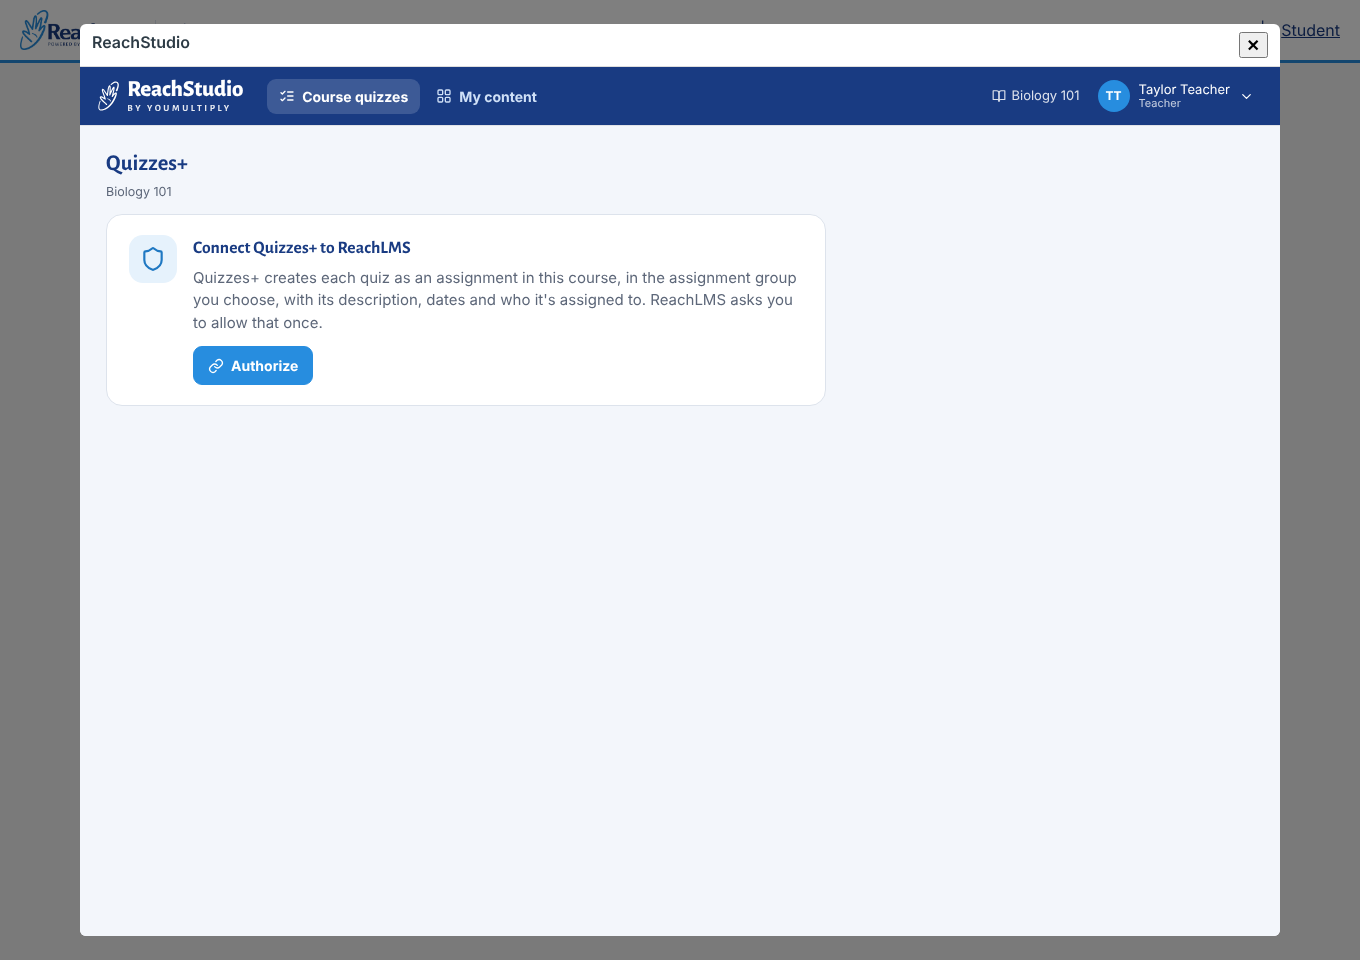
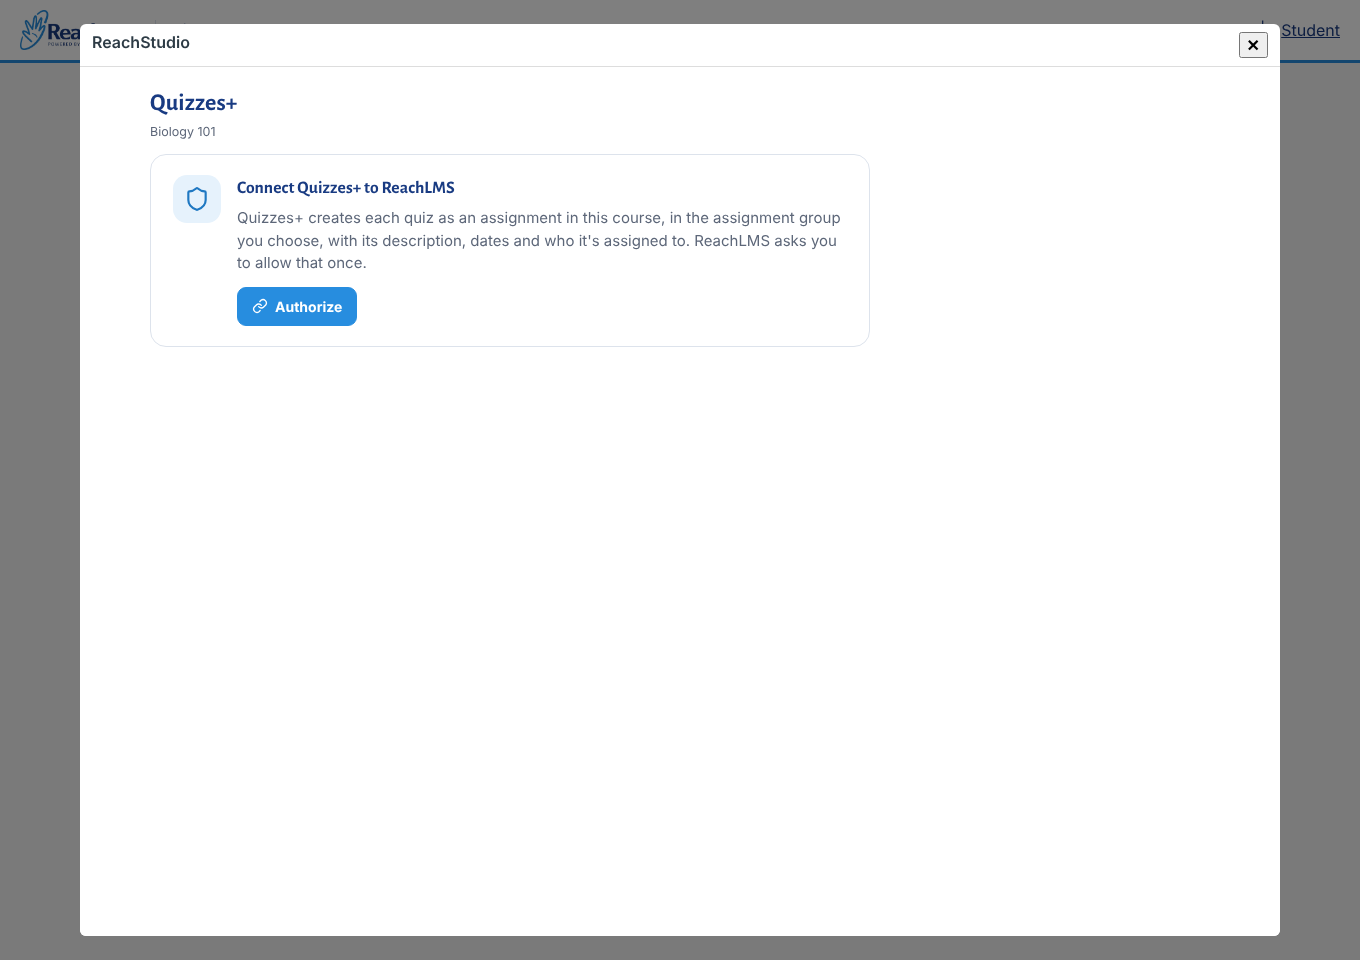
Quizzes+ teacher view: its own course page, clear status messages
- Teachers open Quizzes+ as a plain page inside the course (no
  ReachStudio top bar, library or account menu); it grows with its
  content and tells ReachLMS its height instead of using a fixed-height
  app layout inside the frame
- Every state explains itself instead of showing an empty panel: API key
  missing, not yet authorised, course ID not sent by ReachLMS (old
  registration), or an existing unlinked account with the same email
- Preview returns to the Quizzes+ page (/quiz/teach)

Claude-Session: https://claude.ai/code/session_01An4ge1vJA3nj6XaPBrGGTf

Changed region(s): [[0.0618, 0.0625, 0.9574, 0.4062]]

diff --git a/public/js/quizzes-teacher.js b/public/js/quizzes-teacher.js
@@ -1,0 +1,45 @@
+// Quizzes+ for teachers: a page of its own inside the course (no ReachStudio app around it).
+// It grows with its content and tells ReachLMS its height, like a normal course page.
+import { h, makeApi, iconBtn } from './util.js';
+import { icon } from './icons.js';
+import { responsesTable, snapshotFrame, fmtWhen } from './submission.js';
+import { initRq } from './rq/teacher.js';
+
+const BOOT = window.BOOT;
+const api = makeApi(() => BOOT.token);
+const app = document.getElementById('rqt');
+app.replaceChildren();
+
+function moreMenu(name, items) {
+  const menu = h('div', { class: 'menu hidden', role: 'menu' }, items.map(([ic, label, fn, cls]) =>
+    h('button', { type: 'button', role: 'menuitem', class: cls || '', onclick: () => { menu.classList.add('hidden'); fn(); } }, icon(ic, { size: 15 }), h('span', {}, label))));
+  const btn = iconBtn('more', `More actions for ${name}`, (e) => {
+    e.stopPropagation();
+    document.querySelectorAll('.menu:not(.hidden)').forEach((m) => m !== menu && m.classList.add('hidden'));
+    menu.classList.toggle('hidden');
+  });
+  btn.setAttribute('aria-haspopup', 'menu');
+  return h('span', { class: 'menu-wrap' }, btn, menu);
+}
+document.addEventListener('click', (e) => { if (!e.target.closest('.menu-wrap')) document.querySelectorAll('.menu:not(.hidden)').forEach((m) => m.classList.add('hidden')); });
+
+const topbar = () => document.createComment('');
+const go = (hash) => { if (location.hash === hash) route(); else location.hash = hash; };
+const rq = initRq({ app, api, topbar, go, moreMenu, responsesTable, snapshotFrame, fmtWhen });
+
+function route() {
+  const [view, arg] = location.hash.replace(/^#/, '').split('/');
+  if (view === 'rq' && arg) return rq.renderQuizEdit(arg);
+  return rq.renderQuizzes();
+}
+window.addEventListener('hashchange', route);
+route();
+
+// Tell ReachLMS how tall the page is, so the course frame fits it (no inner scrollbars).
+let lastH = 0;
+new ResizeObserver(() => {
+  const height = Math.max(600, Math.ceil(document.documentElement.scrollHeight));
+  if (Math.abs(height - lastH) < 4) return;
+  lastH = height;
+  window.parent?.postMessage({ subject: 'lti.frameResize', height }, '*');
+}).observe(document.body);

diff --git a/src/quizzes.js b/src/quizzes.js
@@ -87,7 +87,7 @@ export function quizLaunch(res, { lti, userId, quizId, ags, payload }) {
   if (lti.instructor) {
     lti.kind = 'quizzes';
     const uid = userId || provisionTeacher(lti);
-    return res.send(views.studio(createSession(uid, lti)));
+    return res.send(views.quizzesTeacher(createSession(uid, lti)));
   }
   lti.kind = 'quizlist';
   return res.send(views.quizzes(createSession(userId, lti)));
@@ -207,7 +207,7 @@ quizzesRouter.get('/api/quizzes', requireSession, async (req, res) => {
     });
     return res.json({ course: l.context, label: config.quizNavLabel, quizzes: out });
   }
-  const status = { configured: apiConfigured(), connected: isConnected(l) };
+  const status = { configured: apiConfigured(), connected: isConnected(l), courseKnown: !!l.canvasCourseId, signedIn: !!req.session.userId };
   let groups = { weighted: false, groups: [] };
   if (status.configured && status.connected && l.canvasCourseId) {
     try {
@@ -331,9 +331,16 @@ quizzesRouter.post('/api/quizzes/:id/open', requireTeacher, (req, res) => {
   const l = req.session.lti;
   const q = findQuiz(l, req.params.id);
   if (!q) return res.status(404).json({ error: 'Quiz not found.' });
-  const backUrl = `/studio?t=${encodeURIComponent(req.session.token)}#quizzes`;
+  const backUrl = `/quiz/teach?t=${encodeURIComponent(req.session.token)}`;
   const token = playerSession({ lti: { ...l, kind: undefined, backUrl, preview: true }, userId: req.session.userId, quiz: { ...q, lineitem: null }, asTeacher: false });
   res.json({ url: `/quiz/play?t=${encodeURIComponent(token)}` });
+});
+
+quizzesRouter.get('/quiz/teach', (req, res) => {
+  const row = db.prepare('SELECT * FROM sessions WHERE token = ?').get(String(req.query.t || ''));
+  const l = row?.lti ? JSON.parse(row.lti) : null;
+  if (!l || l.kind !== 'quizzes' || row.expires_at < Date.now()) return res.status(401).send(views.message('Session expired', 'Open Quizzes+ again from the course menu.'));
+  res.send(views.quizzesTeacher(row.token));
 });
 
 quizzesRouter.get('/quiz/list', (req, res) => {

diff --git a/src/views.js b/src/views.js
@@ -14,7 +14,7 @@ const json = (o) => JSON.stringify(o).replace(/</g, '\\u003c').replace(/\u2028/g
 const JS_DIR = path.join(path.dirname(fileURLToPath(import.meta.url)), '..', 'public', 'js');
 const MODULES = (function list(dir, rel = '') {
   return fs.readdirSync(dir, { withFileTypes: true }).flatMap((e) => (e.isDirectory() ? list(path.join(dir, e.name), `${rel}${e.name}/`) : e.name.endsWith('.js') ? [`${rel}${e.name}`] : []));
-}(JS_DIR)).filter((f) => !/^(reset-page|quizzes-page|review-page|player-page|studio)\.js$/.test(f));
+}(JS_DIR)).filter((f) => !/^(reset-page|quizzes-page|quizzes-teacher|review-page|player-page|studio)\.js$/.test(f));
 const preloads = () => MODULES.map((f) => `<link rel="modulepreload" href="/js/v/${config.build}/${f}">`).join('');
 
 // Shown the instant the page arrives (inline styles, no downloads), until the app replaces it.
@@ -90,6 +90,15 @@ export const views = {
       modules: true,
       bodyClass: 'player-body review-body',
       scripts: `<script>window.BOOT=${json({ token, build: config.build })}</script><script type="module" src="/js/v/${config.build}/review-page.js"></script>`,
+    });
+  },
+
+  // ReachQuizzes for teachers: its own page in the course (no ReachStudio app around it).
+  quizzesTeacher(token) {
+    return shell(config.quizToolName, `<main id="rqt" class="rqt-root">${splash(`Opening ${config.quizNavLabel}…`)}</main>`, {
+      bodyClass: 'rqt-body',
+      modules: true,
+      scripts: `<script>window.BOOT=${json({ token, build: config.build, label: config.quizNavLabel })}</script><script type="module" src="/js/v/${config.build}/quizzes-teacher.js"></script>`,
     });
   },
 

diff --git a/public/js/rq/teacher.js b/public/js/rq/teacher.js
@@ -40,6 +40,13 @@ export function initRq({ app, api, topbar, go, moreMenu, responsesTable, snapsho
     const head = h('div', { class: 'rq-top' },
       h('div', {}, h('h2', {}, r.label), h('p', { class: 'help' }, r.course || '')),
       r.connected && h('button', { class: 'btn primary', type: 'button', onclick: () => newQuiz(r) }, icon('plus', { size: 16 }), h('span', {}, 'Quiz')));
+    // Anything that stops quizzes being created gets a clear explanation (never an empty page).
+    const problem = !r.signedIn
+      ? 'Quizzes+ couldn\'t set up your account automatically: a ReachStudio account with your email already exists. Open ReachStudio once from the editor\'s ReachStudio button and sign in to it; Quizzes+ then uses the same account.'
+      : !r.courseKnown
+        ? 'ReachLMS didn\'t send this course\'s ID with the launch. Ask your administrator to reinstall ReachQuizzes (Developer Keys → + Dynamic Registration with /lti/register?app=quizzes); the current version asks for it.'
+        : null;
+    if (problem) { app.replaceChildren(topbar('quizzes'), h('section', { class: 'main rq' }, head, h('div', { class: 'rq-connect' }, h('span', { class: 'rq-connect-ico warnico' }, icon('alert', { size: 26 })), h('div', {}, h('h3', {}, 'Quizzes+ isn\'t ready in this course yet'), h('p', {}, problem))))); return; }
     if (!r.connected) { app.replaceChildren(topbar('quizzes'), h('section', { class: 'main rq' }, head, connectCard(r, renderQuizzes))); return; }
 
     const byGroup = new Map(r.groups.map((g) => [g.id, []]));

diff --git a/public/css/app.css b/public/css/app.css
@@ -1092,3 +1092,12 @@ a.rq-item-title:hover { text-decoration: underline; }
 .assign-bottom { display: flex; justify-content: flex-end; align-items: center; gap: 10px; margin-top: 16px; padding-top: 14px; border-top: 1px solid var(--line); flex-wrap: wrap; }
 .assign-actions.confirming, .assign-bottom.confirming { background: var(--amber-soft); border-radius: 10px; padding: 8px 10px; }
 .assign-confirm { display: inline-flex; gap: 6px; align-items: center; font-size: 14px; color: #6b4a0e; font-weight: 600; max-width: 520px; }
+
+/* Quizzes+ teacher page: a plain course page inside ReachLMS (no ReachStudio app chrome) */
+.rqt-body { background: #fff; }
+.rqt-root { max-width: 1100px; margin: 0 auto; }
+.rqt-root > .main { padding: 18px 20px 28px; overflow: visible; }
+.rqt-root .rq-group-block, .rqt-root .rq-qcard, .rqt-root .rq-pane, .rqt-root .rq-assign-card, .rqt-root .rq-tabs { box-shadow: none; }
+.rqt-root .builder-bar { position: sticky; top: 0; z-index: 4; background: #fff; border-bottom: 1px solid var(--line); }
+.rqt-root .rq-top h2 { font-size: 24px; }
+.rq-connect-ico.warnico { background: var(--amber-soft); color: var(--amber); }
